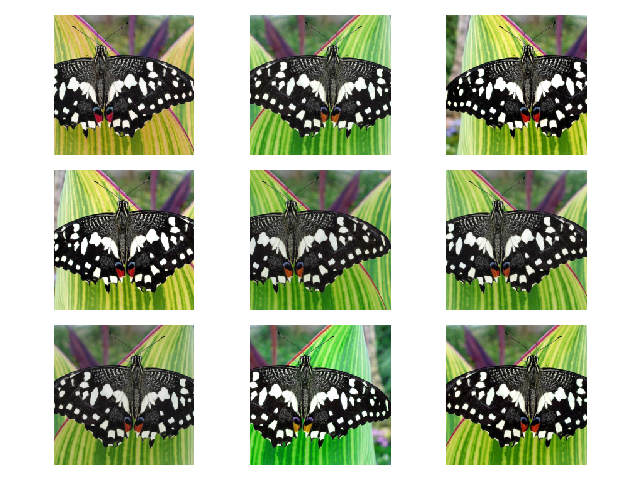
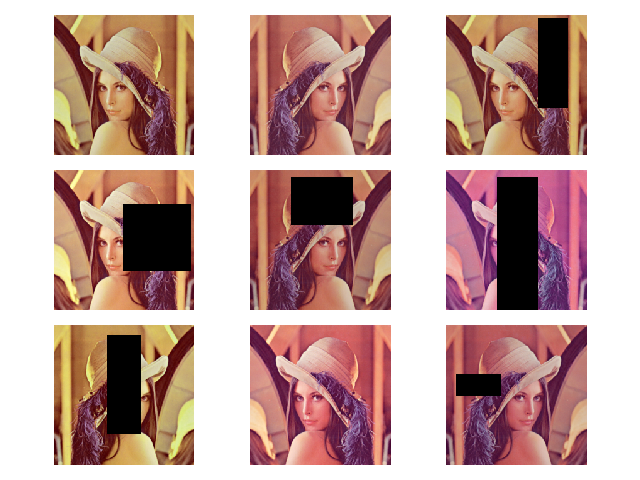
feat(pytorch): 图像预处理 - 随机擦除

diff --git a/py/data_preprocessing/erase.py b/py/data_preprocessing/erase.py
@@ -1,0 +1,58 @@
+# -*- coding: utf-8 -*-
+
+"""
+@date: 2020/5/1 上午10:09
+@file: erase.py
+@author: zj
+@description: 
+"""
+
+import torchvision.transforms as transforms
+from PIL import Image
+import matplotlib.pyplot as plt
+
+plt.rcParams['font.sans-serif'] = ['simhei']  # 用来正常显示中文标签
+plt.rcParams['axes.unicode_minus'] = False  # 用来正常显示负号
+
+
+def plot(src, dst, dst2):
+    f = plt.figure()
+
+    plt.subplot(311)
+    h, w = src.size
+    plt.title('原图 (w,h)=(%d, %d)' % (h, w))
+    plt.imshow(src),  # plt.axis('off')
+
+    plt.subplot(312)
+    h, w = dst.size
+    plt.title('随机擦除1 (w,h)=(%d, %d)' % (h, w))
+    plt.imshow(dst),  # plt.axis('off')
+
+    plt.subplot(313)
+    h, w = dst2.size
+    plt.title('随机擦除2 (w,h)=(%d, %d)' % (h, w))
+    plt.imshow(dst2),  # plt.axis('off')
+
+    plt.show()
+
+
+if __name__ == '__main__':
+    src = Image.open('../data/butterfly.jpg')
+
+    # 随机擦除1
+    transform = transforms.Compose([
+        transforms.ToTensor(),
+        transforms.RandomErasing(),
+        transforms.ToPILImage()
+    ])
+    dst = transform(src)
+
+    # 随机擦除2
+    transform2 = transforms.Compose([
+        transforms.ToTensor(),
+        transforms.RandomErasing(),
+        transforms.ToPILImage()
+    ])
+    dst2 = transform2(src)
+
+    plot(src, dst, dst2)

diff --git a/py/data_preprocessing/compose.py b/py/data_preprocessing/compose.py
@@ -12,7 +12,7 @@ from PIL import Image
 import matplotlib.pyplot as plt
 
 if __name__ == '__main__':
-    src = Image.open('../data/butterfly.jpg')
+    src = Image.open('../data/lena.jpg')
 
     # 预处理顺序如下：
     # 1. 按较短边缩放
@@ -23,7 +23,10 @@ if __name__ == '__main__':
         transforms.Resize(224),
         transforms.RandomCrop(224),
         transforms.RandomHorizontalFlip(),
-        transforms.ColorJitter(brightness=0.1, contrast=0.1, saturation=0.1, hue=0.1)
+        transforms.ColorJitter(brightness=0.1, contrast=0.1, saturation=0.1, hue=0.1),
+        transforms.ToTensor(),
+        transforms.RandomErasing(),
+        transforms.ToPILImage()
     ])
 
     cols = 3

diff --git a/docs/pytorch/preprocessing/数据预处理.md b/docs/pytorch/preprocessing/数据预处理.md
@@ -1,7 +1,12 @@
 
 # 数据预处理
 
-参考：[深度学习入门之Pytorch——数据增强](https://blog.csdn.net/weixin_40793406/article/details/84867143)
+参考：
+
+[深度学习入门之Pytorch——数据增强](https://blog.csdn.net/
+weixin_40793406/article/details/84867143)
+
+[深度神经网络模型训练中的最新tricks总结【原理与代码汇总】](https://zhuanlan.zhihu.com/p/66080948)
 
 `PyTorch`提供了丰富的预处理函数，组合不同的预处理函数能够极大的扩充图像数据库
 
@@ -13,6 +18,7 @@
 2. 裁剪（`CenterCrop/RandomCrop`）
 3. 翻转（`RandomHorizontalFlip/RandomVerticalFlip`）
 4. 颜色抖动（`ColorJitter`）
+5. 随机擦除（`RandomErasing`）
 
 ## 组合
 
@@ -24,11 +30,17 @@
     # 2. 随机裁剪224x224
     # 3. 随机水平翻转
     # 4. 随机颜色抖动：亮度、对比度、饱和度、色调
+    # 5. 转换成Tensor张量
+    # 6. 随机擦除
+    # 7. 转换成PIL Image
     transform = transforms.Compose([
         transforms.Resize(224),
         transforms.RandomCrop(224),
         transforms.RandomHorizontalFlip(),
-        transforms.ColorJitter(brightness=0.1, contrast=0.1, saturation=0.1, hue=0.1)
+        transforms.ColorJitter(brightness=0.1, contrast=0.1, saturation=0.1, hue=0.1),
+        transforms.ToTensor(),
+        transforms.RandomErasing(),
+        transforms.ToPILImage()
     ])
 ```
 
